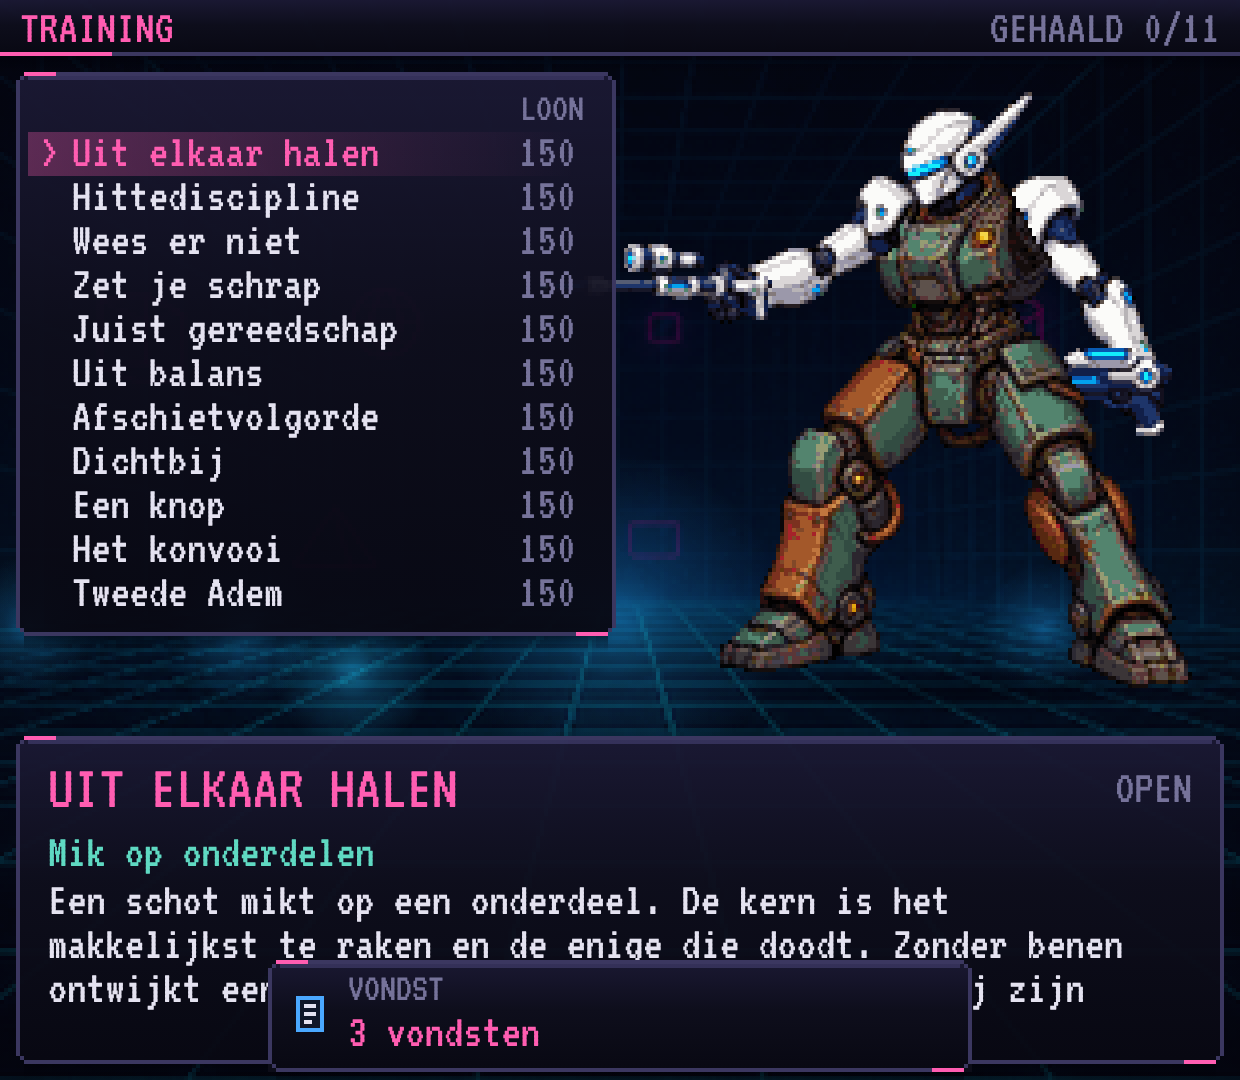
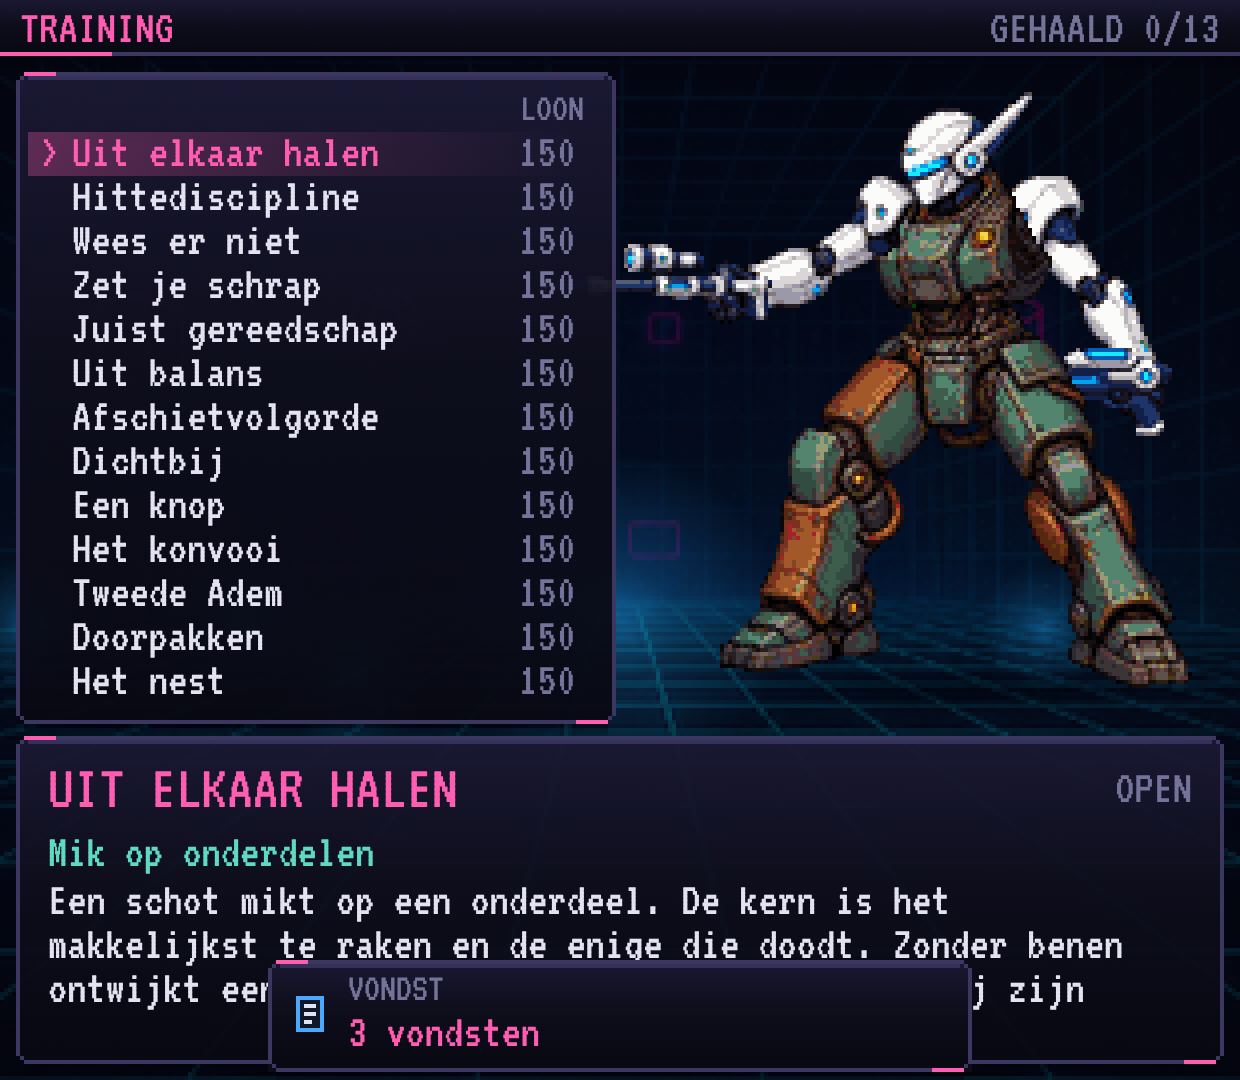
Of One Piece U1: the drill and the lesson in a real browser
A browser test plays Follow Through as it is taught (the lance at a drone for
as long as it is ready), sees the enforcer lose its nerve and leave, and finds
nothing of Dispatch's said or kept; then flies the patrol, hears Dispatch say
once why the weapon is ready again, and finds it in the kept game while the
battle is still on. Pictures of the list with thirteen drills, the aiming line
that promises a drone, the chain, and the lesson.

The pilots of the tests that photograph battles have been told everything that
is explained once, so nothing is said over what is photographed.

Claude-Session: https://claude.ai/code/session_01D72L5UjxxzTBcVetS4xsP3

Changed region(s): [[0.0, 0.5806, 0.521, 0.6722], [0.95, 0.0, 0.9806, 0.0306]]

diff --git a/e2e/heavy.spec.ts b/e2e/heavy.spec.ts
@@ -1,8 +1,9 @@
 import { expect, test, type Page } from '@playwright/test';
 import { swarmContract } from '../src/core/board';
-import { completeMission } from '../src/core/campaign';
+import { LESSONS, completeMission } from '../src/core/campaign';
 import { buy, equip, newGame, type GameState } from '../src/core/game';
 import { BOARD_TEXT } from '../src/content/board';
+import { LESSON_LINES } from '../src/content/drills';
 import { MISSIONS } from '../src/content/missions';
 import { CATALOG, STARTER_BUILD } from '../src/content/parts';
 import { REFERENCE_BUILDS } from '../src/content/referenceBuilds';
@@ -14,12 +15,12 @@ const shot = (name: string) => `docs/screenshots/${name}.png`;
  * Opens the game on a saved one, with battles played faster and not hurried: what the message bar
  * says stays for a few frames, to be read by a test as by a pilot. Everything it says is kept.
  */
-async function load(page: Page, save: GameState): Promise<void> {
+async function load(page: Page, save: GameState, seed = 7): Promise<void> {
   await page.addInitScript(({ data, settings }) => {
     if (!window.localStorage.getItem('ironwage-save')) window.localStorage.setItem('ironwage-save', data);
     if (!window.localStorage.getItem('ironwage-settings')) window.localStorage.setItem('ironwage-settings', settings);
   }, { data: JSON.stringify(save), settings: JSON.stringify({ ...save.settings, fastBattles: true }) });
-  await open(page, '/?seed=7');
+  await open(page, `/?seed=${seed}`);
   await page.evaluate(() => {
     const said: string[] = [];
     (window as unknown as { __said: string[] }).__said = said;
@@ -46,15 +47,44 @@ async function still(page: Page): Promise<void> {
 }
 const saved = (page: Page): Promise<GameState> => page.evaluate(() => JSON.parse(window.localStorage.getItem('ironwage-save')!) as GameState);
 
-/** A pilot past the introductions in a full Ronin: somebody who outguns a swarm. */
-function ronin(): GameState {
+/**
+ * A pilot past the introductions in a full Ronin: somebody who outguns a swarm. One who has been `told`
+ * has had everything explained that is explained once, and nothing is said over their battles.
+ */
+function ronin(told = true): GameState {
   let game: GameState = { ...newGame(CATALOG, STARTER_BUILD, 'VANTA'), credits: 999999, scenes: ['act-1'] };
   for (const id of ['intro-1', 'intro-2']) game = completeMission(game, id, MISSIONS);
   for (const [slot, id] of Object.entries(REFERENCE_BUILDS.tier4)) {
     if (!game.inventory[id]) game = buy(game, id, CATALOG);
     game = equip(game, slot as keyof typeof game.build, id, CATALOG);
   }
-  return { ...game, credits: 2000 };
+  return { ...game, credits: 2000, ...(told ? { lessons: [...LESSONS] } : {}) };
+}
+
+type Fought = { phase: string; outcome: string; spoken: string | null; message: string; enemies: string[]; targetId: string | null };
+const fought = async (page: Page): Promise<Fought> => (await snap(page)).battle as unknown as Fought;
+/** Reads past whatever is being said over the battle, to the menu or the result. Returns what was said. */
+async function listen(page: Page): Promise<string[]> {
+  const said: string[] = [];
+  for (let i = 0; i < 6000; i++) {
+    const b = await fought(page);
+    if (b.phase === 'action' || b.phase === 'result') return said;
+    if (b.phase === 'talk') {
+      // A line takes two presses where it is still being written: one to finish it, one to go on.
+      if (said.at(-1) !== b.spoken) said.push(b.spoken!);
+      await press(page, 'Enter');
+    } else await nextFrame(page);
+  }
+  throw new Error('the battle never handed the turn over');
+}
+/** Waits for the battle to have something for the pilot: a line being said, the menu, or the result. */
+async function awaited(page: Page): Promise<Fought> {
+  for (let i = 0; i < 6000; i++) {
+    const b = await fought(page);
+    if (['talk', 'action', 'result'].includes(b.phase)) return b;
+    await nextFrame(page);
+  }
+  throw new Error('the battle never came to rest');
 }
 
 test('a swarm: the briefing counts it, the field says how many are still to come, kills ready the weapon, machines come on, and every one of them is destroyed or leaves', async ({ page }) => {
@@ -150,3 +180,106 @@ test('a name: the record shows the one the pilot has earned, and a battle agains
   await page.screenshot({ path: shot('battle-name') });
   expect(errors).toEqual([]);
 });
+
+test('what an open battle gives: practised in the simulator, where nothing of Dispatch\'s is said, and said once in the field', async ({ page }) => {
+  test.setTimeout(240_000);
+  const errors: string[] = [];
+  page.on('pageerror', (e) => errors.push(e.message));
+  // A pilot who has been told nothing yet.
+  const game = ronin(false);
+  expect(game.lessons).toBeUndefined();
+  await load(page, game);
+  await enterHub(page);
+
+  // The simulator: thirteen drills, the two about open battles at the foot of the list.
+  await choose(page, 'training');
+  await waitForScreen(page, 'training');
+  let s = await snap(page);
+  expect(s.menu.items.map((item) => item.id).slice(-2)).toEqual(['drill-momentum', 'drill-swarm']);
+  expect(s.menu.items).toHaveLength(13);
+  for (let i = 0; i < 20 && s.menu.items[s.menu.cursor].id !== 'drill-momentum'; i++) { await press(page, 'ArrowDown'); s = await snap(page); }
+  expect(s.menu.items[s.menu.cursor]).toMatchObject({ id: 'drill-momentum', label: 'Follow Through', enabled: true });
+  await still(page);
+  await page.screenshot({ path: shot('training-follow-through') });
+  await press(page, 'Enter');
+  await waitForScreen(page, 'briefing');
+  await choose(page, 'accept');
+  await waitForScreen(page, 'battle');
+  // The simulator says what to do; the banner of this drill reads MOMENTUM, which no other drill's does.
+  const opening = await listen(page);
+  expect(opening).toHaveLength(1);
+  expect(opening[0]).toMatch(/DESTROYS/);
+
+  // The lance at a drone: the enforcer stands first, a drone is one step along.
+  const aimAtDrone = async (): Promise<void> => {
+    await choose(page, 'fire');
+    await press(page, 'Enter');
+    await waitForPhase(page, 'target');
+    for (let i = 0; i < 3 && (await fought(page)).targetId === 'enemy-0' && (await fought(page)).enemies.includes('recon-drone'); i++) await press(page, 'e');
+  };
+  await aimAtDrone();
+  expect((await fought(page)).targetId).not.toBe('enemy-0');
+  await still(page);
+  await page.screenshot({ path: shot('drill-follow-through-aim') });
+  // Played out as it is taught: the lance at a drone for as long as it is ready, then the turn is ended.
+  let pictured = false;
+  for (let i = 0; i < 40 && (await fought(page)).phase !== 'result'; i++) {
+    const b = await fought(page);
+    if (b.phase === 'target') { await press(page, 'Enter'); await listen(page); continue; }
+    s = await snap(page);
+    // Two drones down in one turn: the enforcer has lost its nerve and still stands.
+    if (!pictured && /^CHAIN x2/.test(b.message) && b.enemies.length === 1) { await still(page); await page.screenshot({ path: shot('drill-follow-through-chain') }); pictured = true; }
+    if (s.menu.items.find((item) => item.id === 'fire')?.enabled) await aimAtDrone();
+    else { await choose(page, 'endTurn'); await listen(page); }
+  }
+  const lines = await heard(page);
+  expect((await fought(page)).outcome).toBe('victory');
+  expect(pictured).toBe(true);
+  expect(lines.some((line) => /^Rail Lance ready again$/.test(line))).toBe(true);
+  expect(lines.some((line) => /^CHAIN x2 - /.test(line))).toBe(true);
+  expect(lines.some((line) => /Enforcer loses its nerve$/.test(line))).toBe(true);
+  expect(lines.some((line) => /Enforcer breaks off$/.test(line))).toBe(true);
+  await press(page, 'Enter');
+  await waitForScreen(page, 'settlement');
+  let kept = await saved(page);
+  expect(kept.drills).toContain('drill-momentum');
+  // The simulator has its own voice: nothing of what Dispatch explains once was said, or counted as said.
+  expect(kept.lessons).toBeUndefined();
+  await press(page, 'Enter');
+  await waitForScreen(page, 'training');
+  await press(page, 'Escape');
+  await waitForScreen(page, 'hub');
+
+  // In the field: the first drone that falls to a weapon that is ready again, and Dispatch says why. Once.
+  await choose(page, 'contracts');
+  await choose(page, 'patrol');
+  await waitForScreen(page, 'briefing');
+  await choose(page, 'accept');
+  await waitForScreen(page, 'battle');
+  expect(await listen(page)).toEqual([]);
+  let told: string | null = null;
+  for (let i = 0; i < 12 && told === null && (await fought(page)).phase === 'action'; i++) {
+    s = await snap(page);
+    if (!s.menu.items.find((item) => item.id === 'fire')?.enabled) { await choose(page, 'endTurn'); await listen(page); continue; }
+    const before = (await fought(page)).enemies.length;
+    await choose(page, 'fire');
+    await press(page, 'Enter');
+    await waitForPhase(page, 'target');
+    await press(page, 'Enter');
+    const b = await awaited(page);
+    if (b.phase === 'talk') told = b.spoken;
+    else expect(b.enemies.length, 'a kill that left the weapon ready was not explained').toBe(before);
+  }
+  expect(told).toBe(LESSON_LINES.momentum.text);
+  await still(page);
+  // The line is written out a letter at a time: photographed once it is all there.
+  for (let frame = 0; frame < 240; frame++) await nextFrame(page);
+  await page.screenshot({ path: shot('lesson-momentum') });
+  // It is in the kept game while the battle is still being fought.
+  kept = await saved(page);
+  expect(kept.lessons).toEqual(['momentum']);
+  expect(await listen(page)).toEqual([LESSON_LINES.momentum.text]);
+  expect((await fought(page)).message).toMatch(/ ready again$/);
+  expect(errors).toEqual([]);
+});
+

diff --git a/e2e/look.spec.ts b/e2e/look.spec.ts
@@ -1,5 +1,5 @@
 import { expect, test, type Page } from '@playwright/test';
-import { completeMission } from '../src/core/campaign';
+import { LESSONS, completeMission } from '../src/core/campaign';
 import { newGame, type GameState } from '../src/core/game';
 import { MISSIONS } from '../src/content/missions';
 import { SCENES } from '../src/content/scenes';
@@ -17,11 +17,14 @@ const shot = (name: string) => `docs/screenshots/${name}.png`;
 /** The field, without the panel under it. */
 const FIELD = { x: 0, y: 0, width: 1240, height: 712 };
 
-/** A pilot past the introductions, in a mech with a gun of each kind: bullets, a beam and shells. */
+/**
+ * A pilot past the introductions, in a mech with a gun of each kind: bullets, a beam and shells. Every page of
+ * story is behind them, and so is everything that is explained once: nothing is said over what is photographed.
+ */
 function gunner(): GameState {
   let g = newGame(CATALOG, DEMO_BUILD);
   for (const id of ['intro-1', 'intro-2']) g = completeMission(g, id, MISSIONS);
-  return { ...g, scenes: SCENES.map((s) => s.id) };
+  return { ...g, scenes: SCENES.map((s) => s.id), lessons: [...LESSONS] };
 }
 
 const adv = (page: Page, ms: number): Promise<void> => page.evaluate((n) => (window as any).__game.advance(n), ms);
